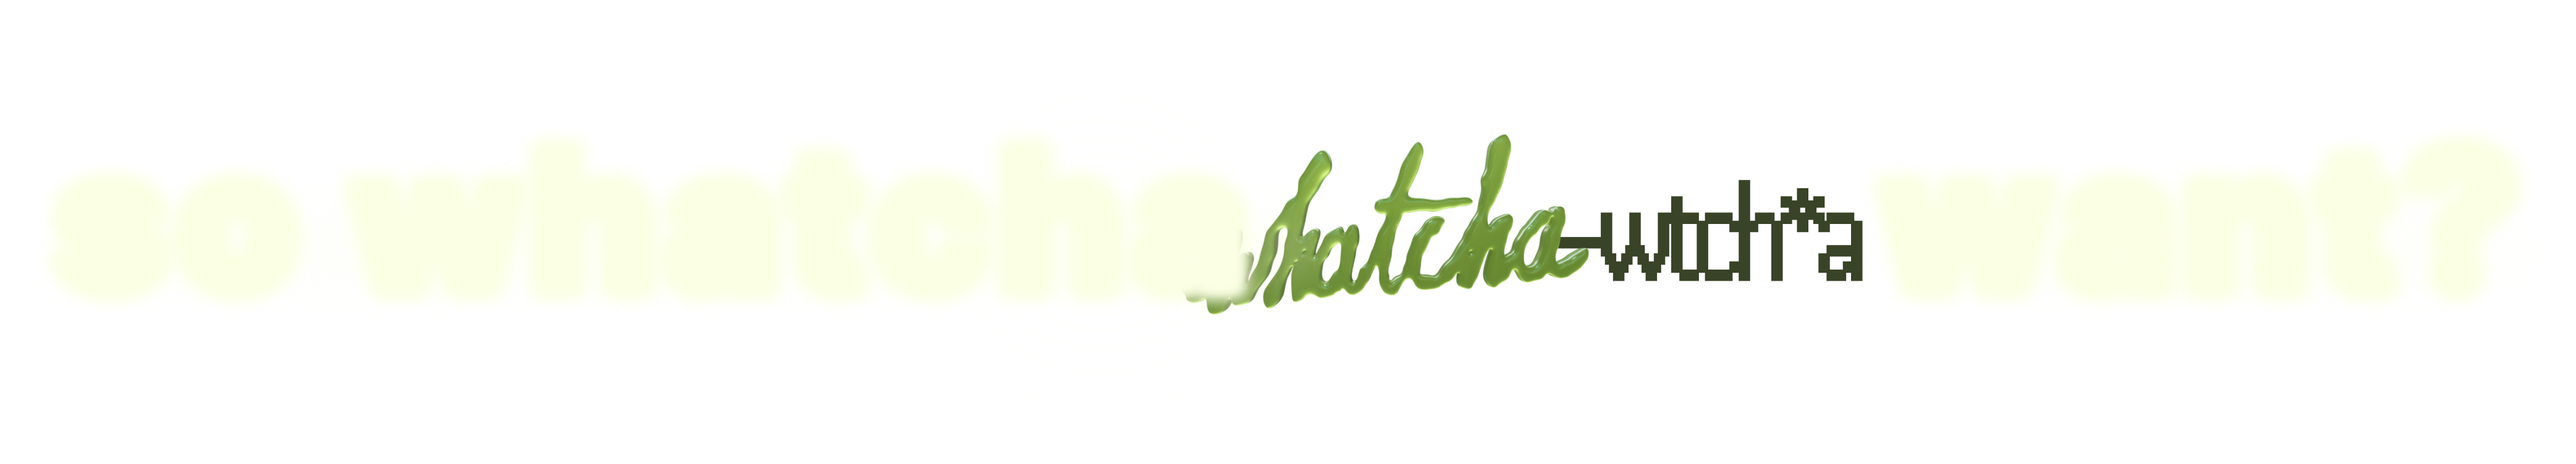
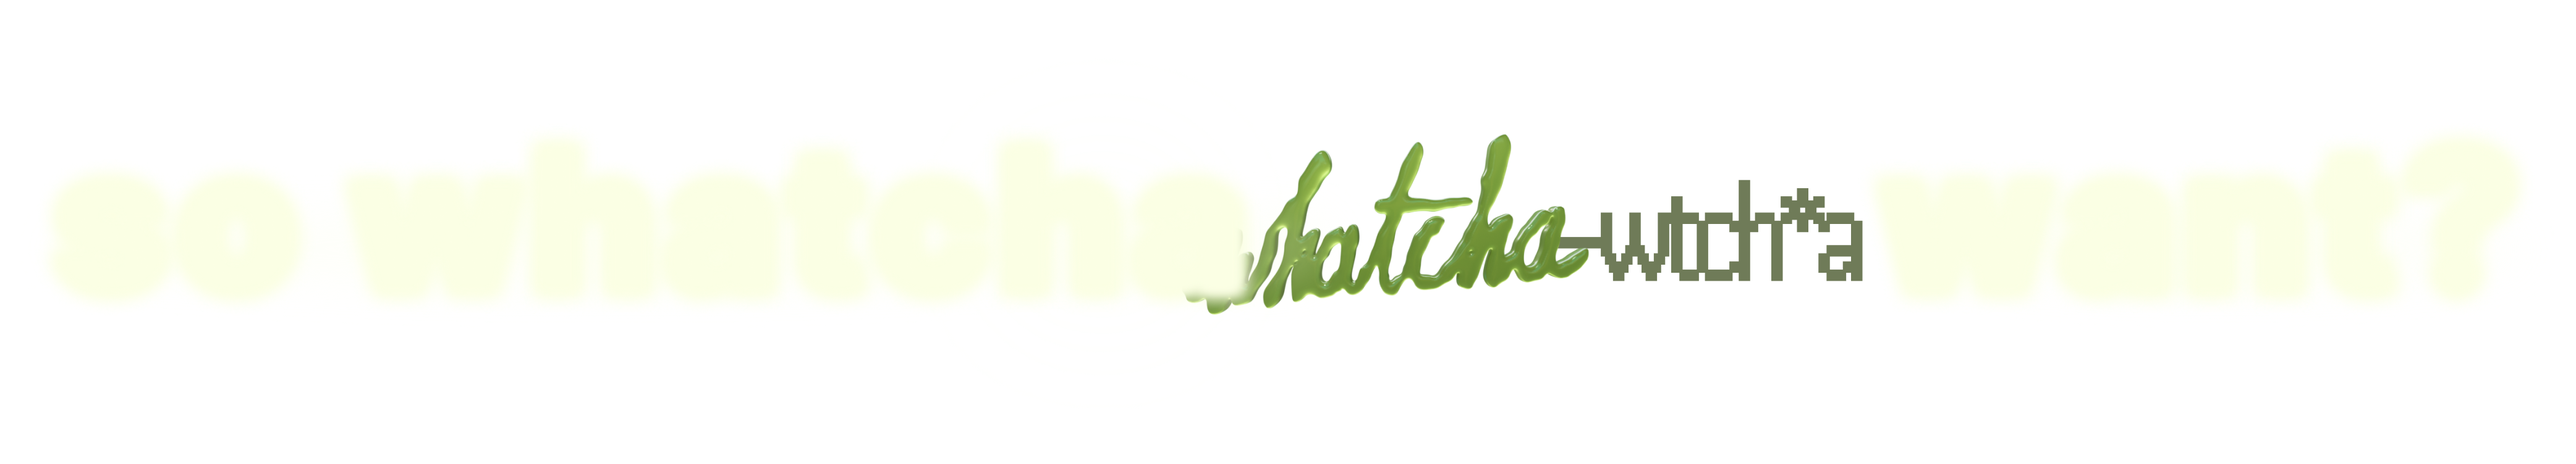
navbar and window updates

Changed region(s): [[0.5926, 0.3976, 0.7486, 0.6117]]

diff --git a/src/App.css b/src/App.css
@@ -15,7 +15,7 @@
   justify-content: center;
   width: 1000px;
   height: 160px;
-  margin: 70px 40px 0px 40px;
+  margin: 70px 40px 100px 40px;
   background-image: url('../src/Images/title.png');
   background-size: cover;
   background-position: center;
@@ -60,8 +60,8 @@ canvas {
   flex-direction: row;
   align-items: flex-end;
   justify-content: center;
-  margin: 40px;
-  margin-bottom: 60px;
+  margin: 70px;
+  margin-bottom: 30px;
 }
 
 button {

diff --git a/src/index.css b/src/index.css
@@ -6,7 +6,7 @@ body {
   font-size: 28px;
   font-weight: 400;
   font-style: normal;
-  color: #777B6F;
+  color: #6F7B58;
   line-height: 0%;
   background-image: url('../src/Images/background.png');
   background-size: cover;
